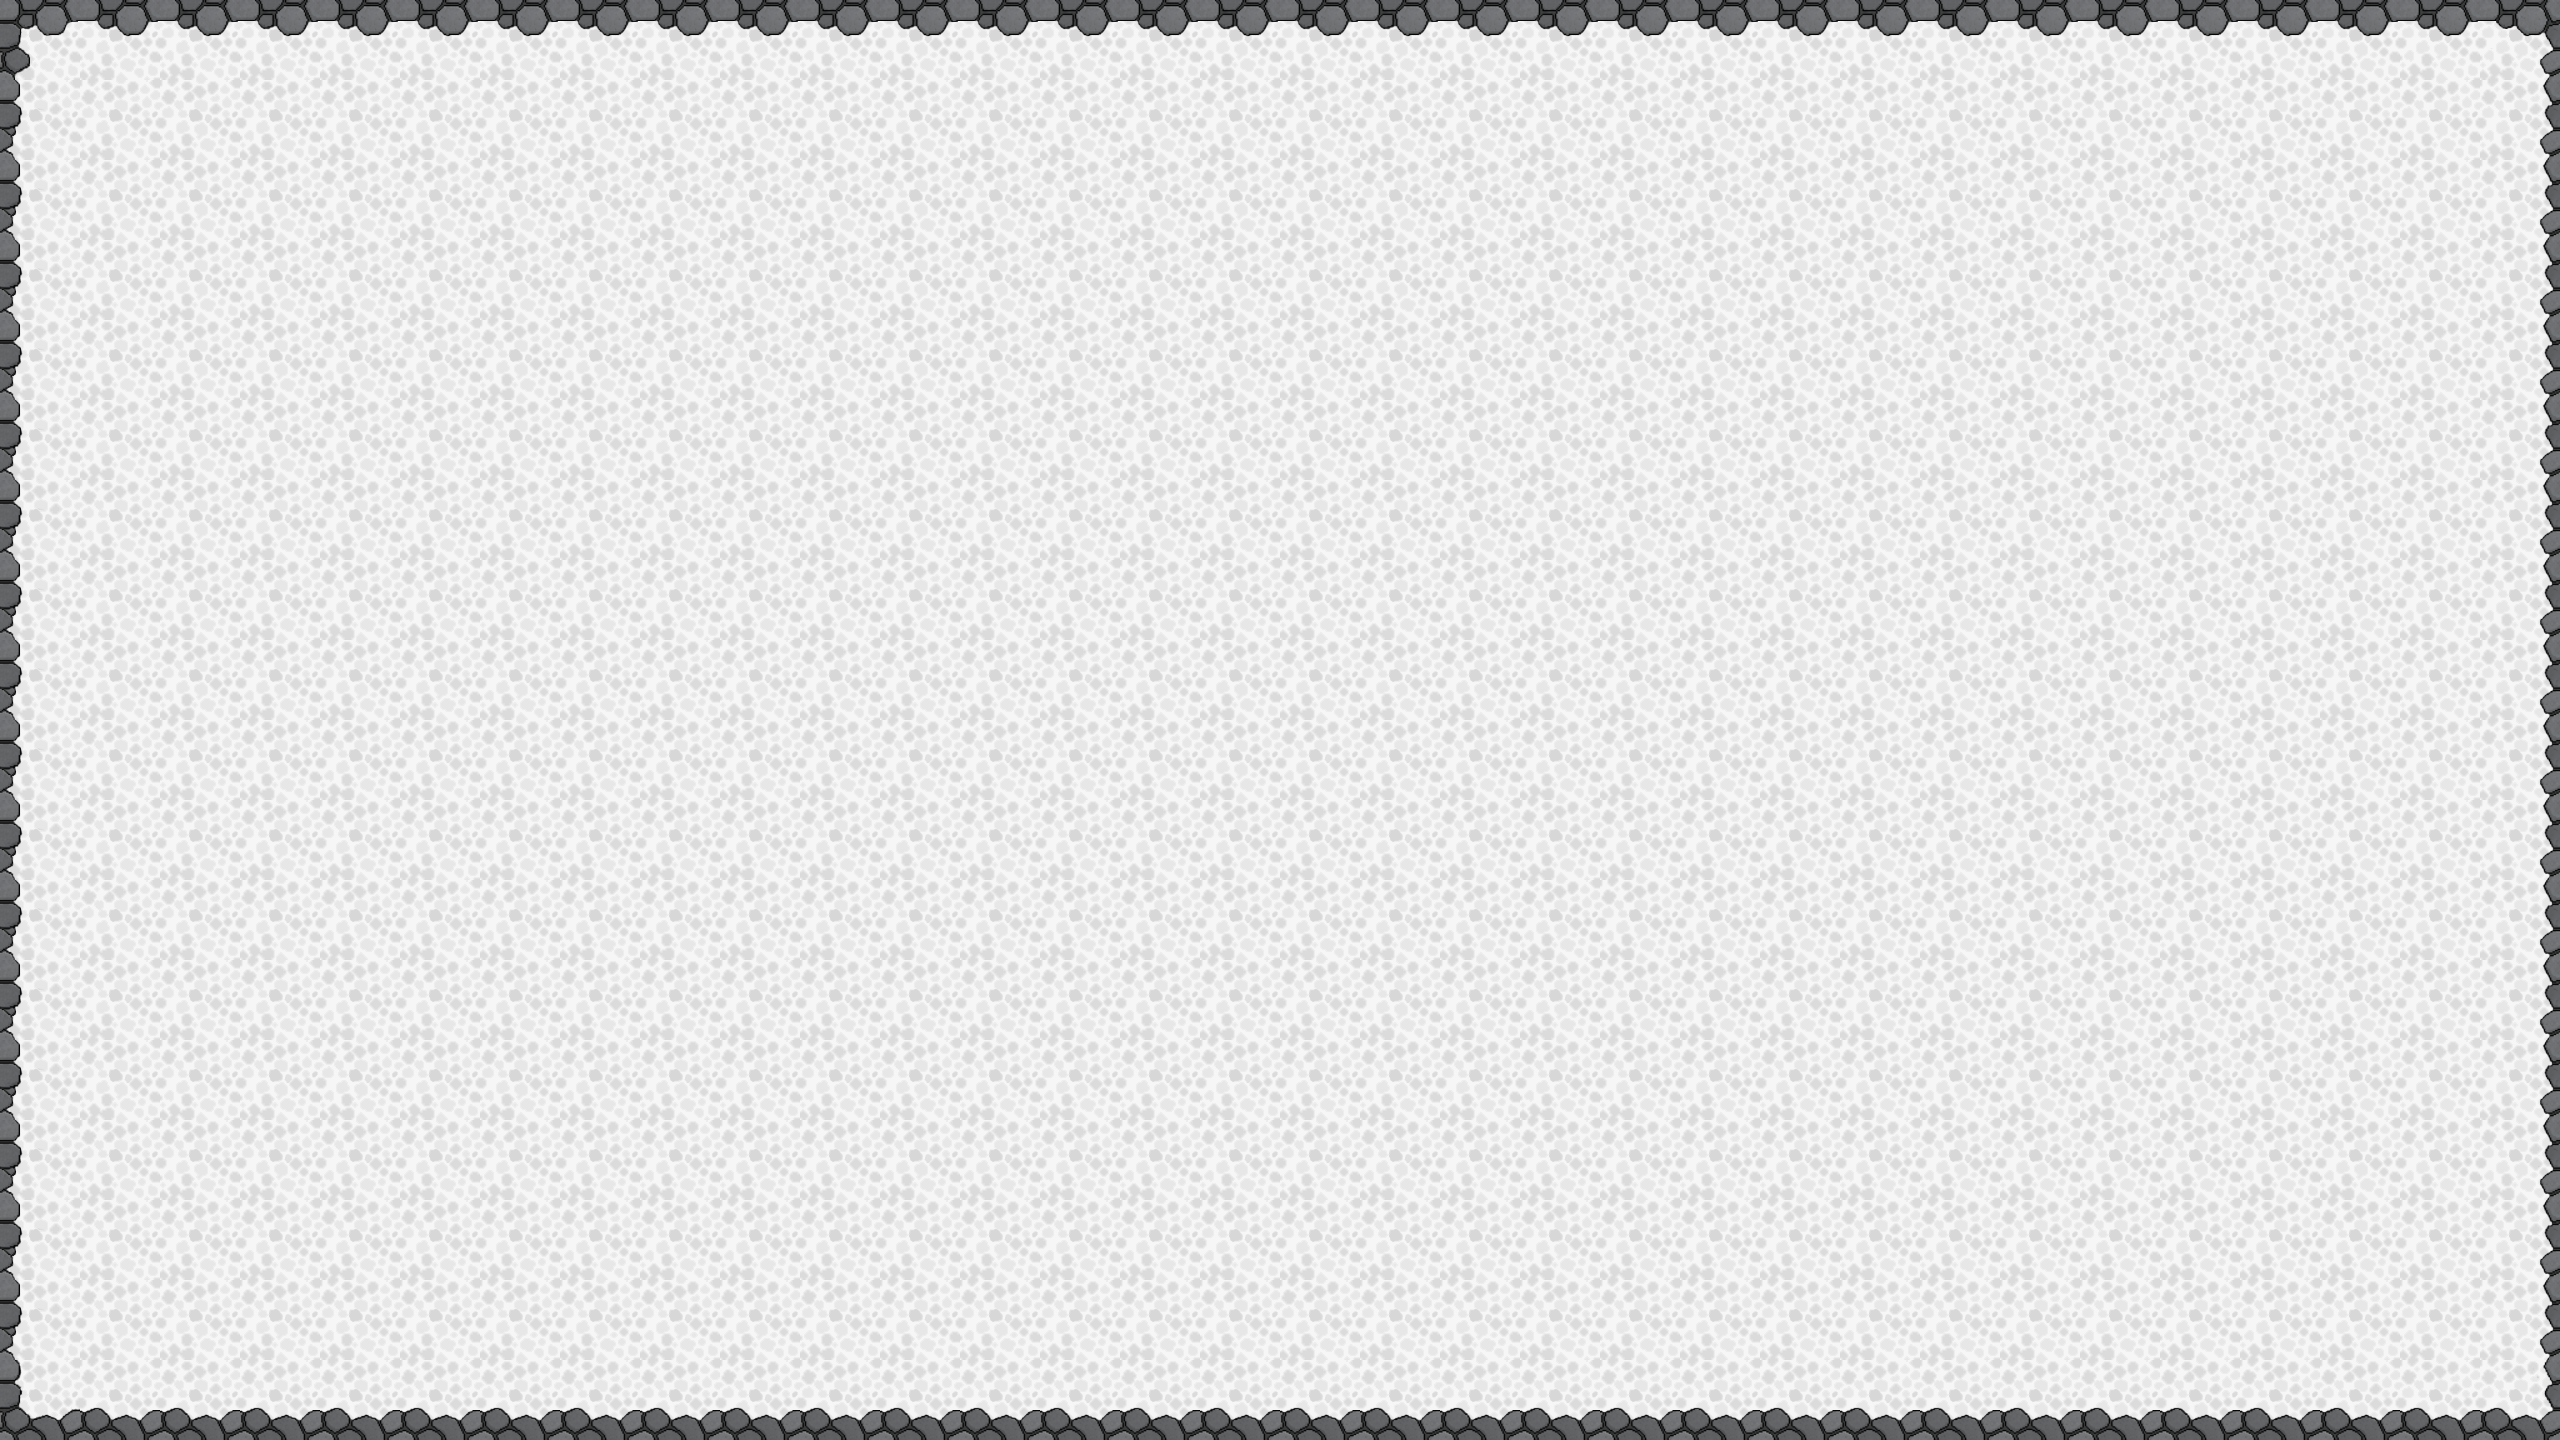
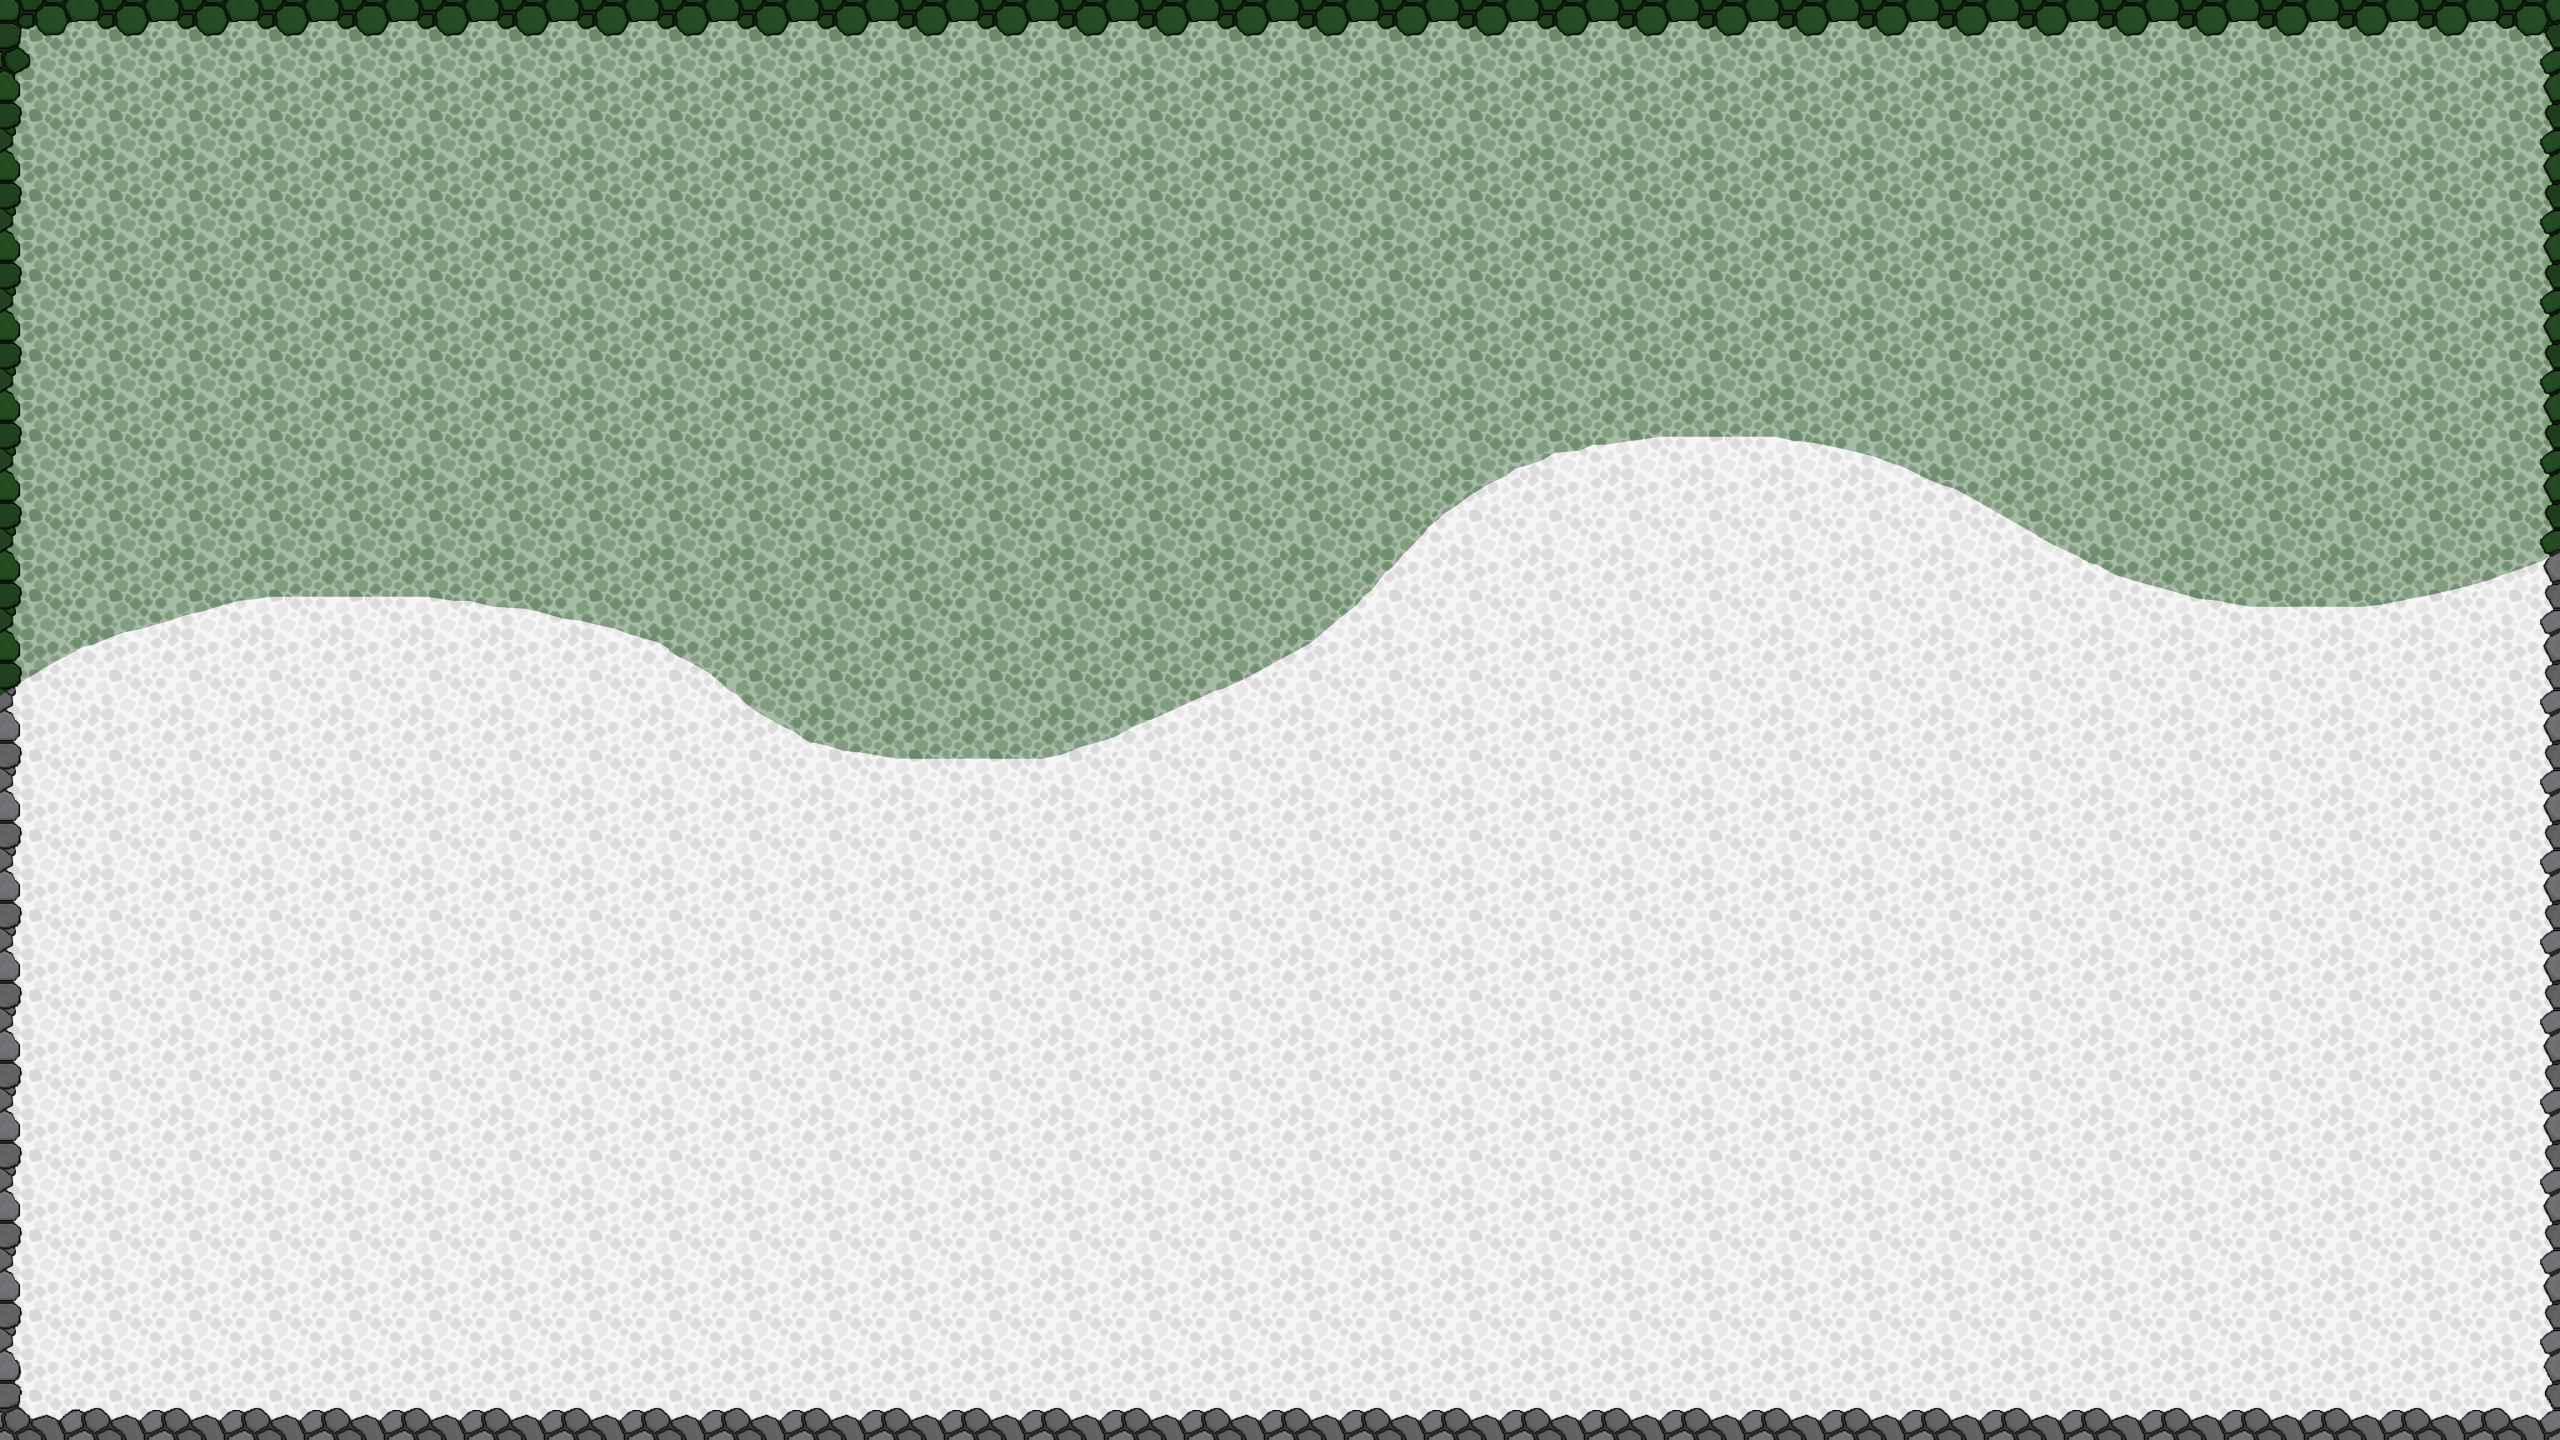
fixing bugs

diff --git a/src/application/InputHandler.java b/src/application/InputHandler.java
@@ -161,7 +161,7 @@ public class InputHandler {
                         stateManager.setCurrentState(GameState.QUEST_SCREEN);
                         setupCallback.run();
                     } else if (levelManager.getCurrentLevelNum() == 4) {
-                        levelManager.advanceToNextLevel();
+                    	levelManager.loadFinalBoss();
                         stateManager.setCurrentState(GameState.QUEST_SCREEN);
                         setupCallback.run();
                     }

diff --git a/src/application/BossScreen04.java b/src/application/BossScreen04.java
@@ -17,7 +17,7 @@ import java.util.List;
 public class BossScreen04 extends BossScreen {
     
     private Image background; 
-    private GameRenderer gameRenderer;
+
 
     /**
      * CONSTRUCTOR
